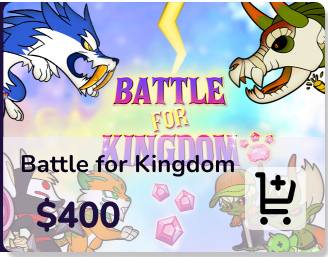
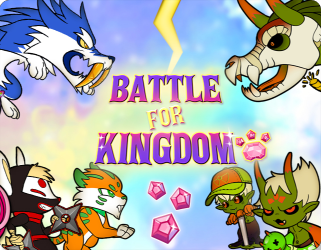
cambios cards grandes

diff --git a/tp2/index.html b/tp2/index.html
@@ -50,7 +50,7 @@
                     <h2 class="nombreUsuario">Nombre del Usuario</h2>
                 </div>
                     <p>emailusuario@gmail.com</p>
-                    <hr class="division_itemUsuarios">
+                <hr class="division_itemUsuarios">
                 <div class="itemsUsuarios">
                     <ul>
                         <li>
@@ -58,9 +58,9 @@
                             <a href="#" class="nav_itemUsuario">Perfil</a>
                         </li>
                         <li>
-                            <img src="img/mdi_cart-outline.png">
+                        <img src="img/mdi_cart-outline.png">
                             <a href="#" class="nav_itemUsuario">Mi Carrito</a>
-                        </li>
+                                                    </li>
                         <li>
                             <img src="img/grommet-icons_configure.png">
                             <a href="#" class="nav_itemUsuario">Configuracion</a>
@@ -82,112 +82,130 @@
             </div>
         </nav>
 
-            <div class="logo">
-                <img class="logodib" src="img/Logo.png">
-                <img class="logoname" src="img/logonombre.png">
-            </div>
+        <div class="logo">
+            <img class="logodib" src="img/Logo.png">
+            <img class="logoname" src="img/logonombre.png">
+        </div>
 
-            <div class="buscador">
-                <h2 class="h2buscador">¿A que jugamos hoy?</h2>
-                <img src="img/iconosearch.png">
-            </div>
+        <div class="buscador">
+            <h2 class="h2buscador">¿A que jugamos hoy?</h2>
+            <img src="img/iconosearch.png">
+        </div>
 
-            <div class="seccionmisjuegos">
-                <img class="corazon" src="img/corazon.png">
-                <h2 class="misjuegos">Mis juegos</h2>
-            </div>                
+        <div class="seccionmisjuegos">
+            <img class="corazon" src="img/corazon.png">
+            <h2 class="misjuegos">Mis juegos</h2>
+        </div>           
     </header>
     <section class="body_container">
-        <h1>Juegos nuevos</h1>
         <div class="carruselGrande">
-         <ul class="carruselUl"> 
+            <h1>Juegos nuevos</h1>
+            <ul class="carruselUl"> 
             <li class="carruselLi">
                 <div class="cardGrande">
-                <img src="img/cards/CarruselGrande/BattleForKingdom.png">
+                    <img src="img/cards/CarruselGrande/BattleForKingdom.png">
+                    <div class="infocard">
+                        <div class="infocardtxt">
+                        <p>Battle for Kingdom</p>
+                        <p>$400</p>
+                        </div>
+                        <img class="carrito" src="img/fe_add-cart.png">
+                    </div>    
                 </div>
             </li>
             <li class="carruselLi">
                 <div class="cajaCard">
-                        <img class="p"src="img/cards/CarruselGrande/poker.png">
-                        <img src="img/cards/CarruselGrande/Chinchon.png">
-                        <img src="img/cards/CarruselGrande/domino.png">
-                        <img src="img/cards/CarruselGrande/parchis.png">
+                    <img class="p"src="img/cards/CarruselGrande/poker.png">
+                    <img src="img/cards/CarruselGrande/Chinchon.png">
+                    <img src="img/cards/CarruselGrande/domino.png">
+                    <img src="img/cards/CarruselGrande/parchis.png">
                 </div>
             </li>
             <li class="carruselLi">
             <div class="cardGrande">
-                <img src="img/cards/CarruselGrande/MarioCart.png">
+                <img src="img/cards/CarruselGrande/Card.png">
+                <div class="infocard">
+                    <div class="infocardtxt">
+                    <p>Mario Cart</p>
+                    <p>$300</p>
+                    </div>
+                    <img class="carrito" src="img/fe_add-cart.png">
+                </div> 
             </div>
-                
             </li>
             <li class="carruselLi">
                 <div class="cajaCard">
-                        <img class="p" src="img/cards/CarruselGrande/poker.png">
-                        <img src="img/cards/CarruselGrande/Chinchon.png">
-                        <img src="img/cards/CarruselGrande/domino.png">
-                        <img src="img/cards/CarruselGrande/parchis.png">
+                    <img class="p" src="img/cards/CarruselGrande/poker.png">
+                    <img src="img/cards/CarruselGrande/Chinchon.png">
+                    <img src="img/cards/CarruselGrande/domino.png">
+                    <img src="img/cards/CarruselGrande/parchis.png">
                 </div>
             </li>
             <li class="carruselLi">
                 <div class="cardGrande">
                 <img src="img/cards//CarruselGrande/BattleForKingdom.png">
+                <div class="infocard">
+                    <div class="infocardtxt">
+                    <p>Battle for Kingdom</p>
+                    <p>$400</p>
+                    </div>
+                    <img class="carrito" src="img/fe_add-cart.png">
+                </div>
                 </div>
             </li>
             <li class="carruselGrandeLi">
                 <div class="cajaCard">
-                        <img class="p" src="img/cards/CarruselGrande/poker.png">
-                        <img src="img/cards/CarruselGrande/Chinchon.png">
-                        <img src="img/cards/CarruselGrande/domino.png">
-                        <img src="img/cards/CarruselGrande/parchis.png">
+                    <img class="p" src="img/cards/CarruselGrande/poker.png">
+                    <img src="img/cards/CarruselGrande/Chinchon.png">
+                    <img src="img/cards/CarruselGrande/domino.png">
+                    <img src="img/cards/CarruselGrande/parchis.png">
                 </div>
             </li>
-         </ul>
-      </div>
-      </div class="carruselJuegosSugeridos">
-        <h1 >Juegos Sugeridos</h1>
-        <ul class="carruselUl">
-            <li class="carruselLi"> <img src="img/cards/CarruselJuegos/amongus.png"> </li>
-            <li class="carruselLi"><img src="img/cards/CarruselJuegos/candycrush.png"></li>
-            <li class="carruselLi"><img src="img/cards/CarruselJuegos/minecraft.png"></li>
-            <li class="carruselLi"><img src="img/cards/CarruselJuegos/Pou.png"></li>
-            <li class="carruselLi"><img src="img/cards/CarruselJuegos/CityBuilder.png"></li>
-            <li class="carruselLi"><img src="img/cards/CarruselJuegos/PacMan.png"></li>
-            <li class="carruselLi"><img src="img/cards/CarruselJuegos/4 en linea p vs g.png"></li>
-            <li class="carruselLi"><img src="img/cards/CarruselJuegos/roblox.png"></li>
-            <li class="carruselLi"><img src="img/cards/CarruselJuegos/bingo.png"></li>
-        </ul>
-      <div>
-    <div class="carruselMultijugador">
-    <h1 >Multijugador</h1>
-    <ul class="carruselUl">
-        <li class="carruselLi"> <img src="img/cards/CarruselJuegos/amongus.png"> </li>
-        <li class="carruselLi"><img src="img/cards/CarruselJuegos/sonic.png"></li>
-        <li class="carruselLi"><img src="img/cards/CarruselJuegos/Pou.png"></li>
-        <li class="carruselLi"><img src="img/cards/CarruselJuegos/4 en linea p vs g.png"></li>
-        <li class="carruselLi"><img src="img/cards/CarruselJuegos/roblox.png"></li>
-        <li class="carruselLi"><img src="img/cards/CarruselJuegos/bingo.png"></li>
-        <li class="carruselLi"><img src="img/cards/CarruselJuegos/minecraft.png"></li>
-        <li class="carruselLi"><img src="img/cards/CarruselJuegos/PacMan.png"></li>
-        <li class="carruselLi"><img src="img/cards/CarruselJuegos/CityBuilder.png"></li>
-    </ul>
-  <div>
-    <div class="carruselDeportes">
-        <h1 >Juegos de deportes</h1>
-<ul class="carruselUl">
-    <li class="carruselLi"><img src="img/cards/CarruselJuegos/fifa.png"></li>
-    <li class="carruselLi"> <img src="img/cards/CarruselJuegos/baskerball.png"> </li>
-    <li class="carruselLi"><img src="img/cards/CarruselJuegos/goalkeeper.png"></li>
-    <li class="carruselLi"><img src="img/cards/CarruselJuegos/supericehokey.png"></li>
-    <li class="carruselLi"><img src="img/cards/CarruselJuegos/voley.png"></li>
-    <li class="carruselLi"><img src="img/cards/CarruselJuegos/tenismania.png"></li>
-    <li class="carruselLi"><img src="img/cards/CarruselJuegos/tabletennis.png"></li>
-
-</ul>
-<div>
-
-
+            </ul>
+        </div>
+        <div class="carruselJuegosSugeridos">
+            <h1 >Juegos Sugeridos</h1>
+            <ul class="carruselUl">
+                <li class="carruselLi"> <img src="img/cards/CarruselJuegos/amongus.png"> </li>
+                <li class="carruselLi"><img src="img/cards/CarruselJuegos/candycrush.png"></li>
+                <li class="carruselLi"><img src="img/cards/CarruselJuegos/minecraft.png"></li>
+                <li class="carruselLi"><img src="img/cards/CarruselJuegos/Pou.png"></li>
+                <li class="carruselLi"><img src="img/cards/CarruselJuegos/CityBuilder.png"></li>
+                <li class="carruselLi"><img src="img/cards/CarruselJuegos/PacMan.png"></li>
+                <li class="carruselLi"><img src="img/cards/CarruselJuegos/4 en linea p vs g.png"></li>
+                <li class="carruselLi"><img src="img/cards/CarruselJuegos/roblox.png"></li>
+                <li class="carruselLi"><img src="img/cards/CarruselJuegos/bingo.png"></li>
+            </ul>
+        </div>
+        <div class="carruselMultijugador">
+            <h1 >Multijugador</h1>
+            <ul class="carruselUl">
+                <li class="carruselLi"> <img src="img/cards/CarruselJuegos/amongus.png"> </li>
+                <li class="carruselLi"><img src="img/cards/CarruselJuegos/sonic.png"></li>
+                <li class="carruselLi"><img src="img/cards/CarruselJuegos/Pou.png"></li>
+                <li class="carruselLi"><img src="img/cards/CarruselJuegos/4 en linea p vs g.png"></li>
+                <li class="carruselLi"><img src="img/cards/CarruselJuegos/roblox.png"></li>
+                <li class="carruselLi"><img src="img/cards/CarruselJuegos/bingo.png"></li>
+                <li class="carruselLi"><img src="img/cards/CarruselJuegos/minecraft.png"></li>
+                <li class="carruselLi"><img src="img/cards/CarruselJuegos/PacMan.png"></li>
+                <li class="carruselLi"><img src="img/cards/CarruselJuegos/CityBuilder.png"></li>
+            </ul>
+        </div>
+        <div class="carruselDeportes">
+            <h1 >Juegos de deportes</h1>
+            <ul class="carruselUl">
+                <li class="carruselLi"><img src="img/cards/CarruselJuegos/fifa.png"></li>
+                <li class="carruselLi"> <img src="img/cards/CarruselJuegos/baskerball.png"> </li>
+                <li class="carruselLi"><img src="img/cards/CarruselJuegos/goalkeeper.png"></li>
+                <li class="carruselLi"><img src="img/cards/CarruselJuegos/supericehokey.png"></li>
+                <li class="carruselLi"><img src="img/cards/CarruselJuegos/voley.png"></li>
+                <li class="carruselLi"><img src="img/cards/CarruselJuegos/tenismania.png"></li>
+                <li class="carruselLi"><img src="img/cards/CarruselJuegos/tabletennis.png"></li>
+            </ul>
+        </div>
     </section>
-     <footer>
+
+    <footer>
         <div class="footertxt">
             <div><p>Sobre nosotros</p></div>
             <div><p>Ayuda</p>

diff --git a/tp2/css/style.css b/tp2/css/style.css
@@ -24,9 +24,9 @@
 }
 
 body{
+    margin: 0%;
     position: relative;
     width: 1199px;
-    height: 1359px;
     flex-direction: column;
     justify-content: flex-end;
     align-items: flex-start;
@@ -126,7 +126,7 @@ ul{
     top: 6%;
     background-color: var(--color-primario-sombra2);
     border-radius: 6px;
-    border: 2px solid var(--Primario-Sombra1, #291656);
+    border: 2px solid var(--color-primario-sombra1);
     clip-path: polygon(0 0, 0 0, 0 100%, 0% 100%);
     transition: clip-path 0.2s ease-out
    
@@ -222,6 +222,7 @@ a:hover{
     color: var(--simil-blanco);
 
 }
+
 .checkbox:checked ~ .nav_menuUsuario{
     clip-path: polygon(0 0, 100% 0, 100% 100%, 0 100%);
 }
@@ -311,6 +312,43 @@ li .cardGrande{
 }
 
 
+.infocard{
+    position: relative;
+    background-color: var(--simil-blanco);
+    opacity: 0.8;
+    top: -124px;
+    display: flex;
+    flex-direction: row;
+    justify-content: space-between;
+    height: 120px;
+    border-bottom-left-radius: 5%;
+    border-bottom-right-radius: 5%;
+}
+
+.infocardtxt{
+    display: flex;
+    flex-direction: column;
+    justify-content: flex-start;
+    margin: 0%;
+}
+
+.infocardtxt p{
+    font-weight: bolder;
+    color: var(--simil-negro);
+    font-size: 130%;
+    margin: 4%;
+}
+
+.carrito {
+    height: 60px;
+    position: inherit;
+    top: 40%;
+    right: 2%;
+    border: 2px solid var(--color-denegado);
+    border-radius: 20%;
+}
+
+
 
 
 
@@ -318,7 +356,7 @@ li .cardGrande{
 footer{
     height: 275px;
     align-items: flex-end;
-    margin-top: 20%;
+    margin-top: 5%;
 }
 
 .footertxt{
